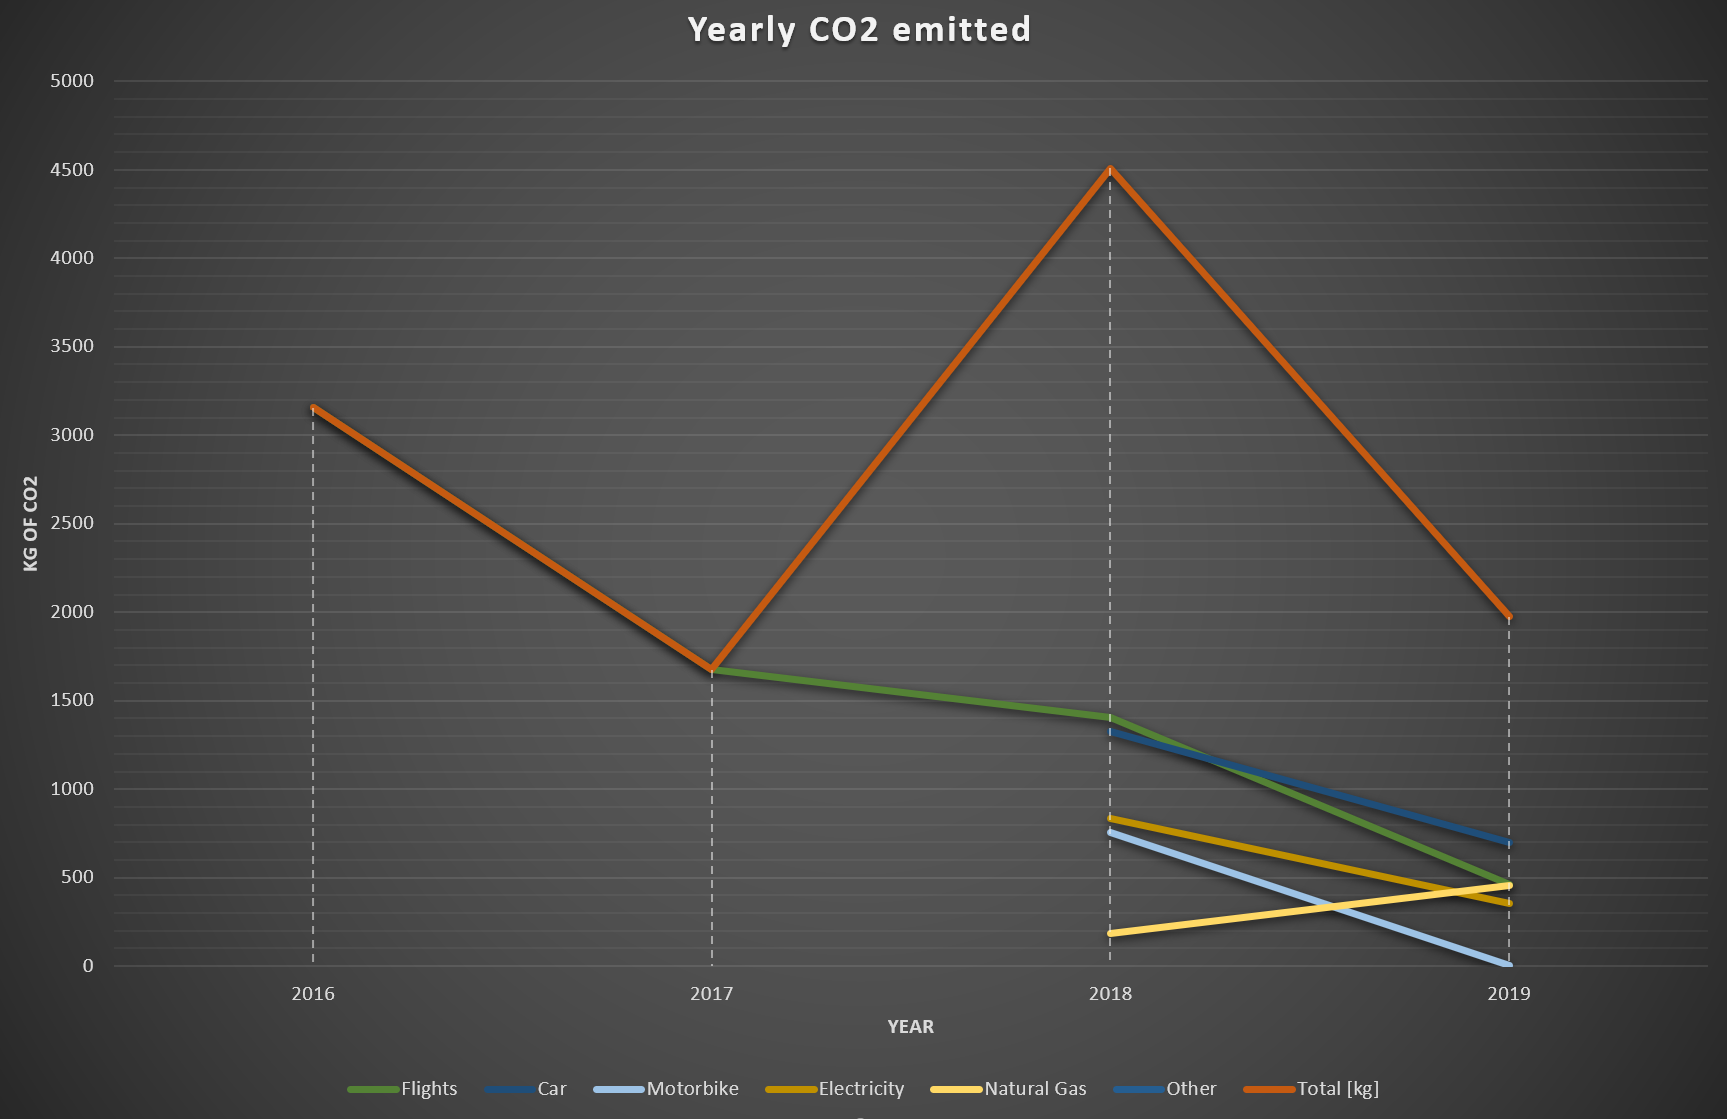
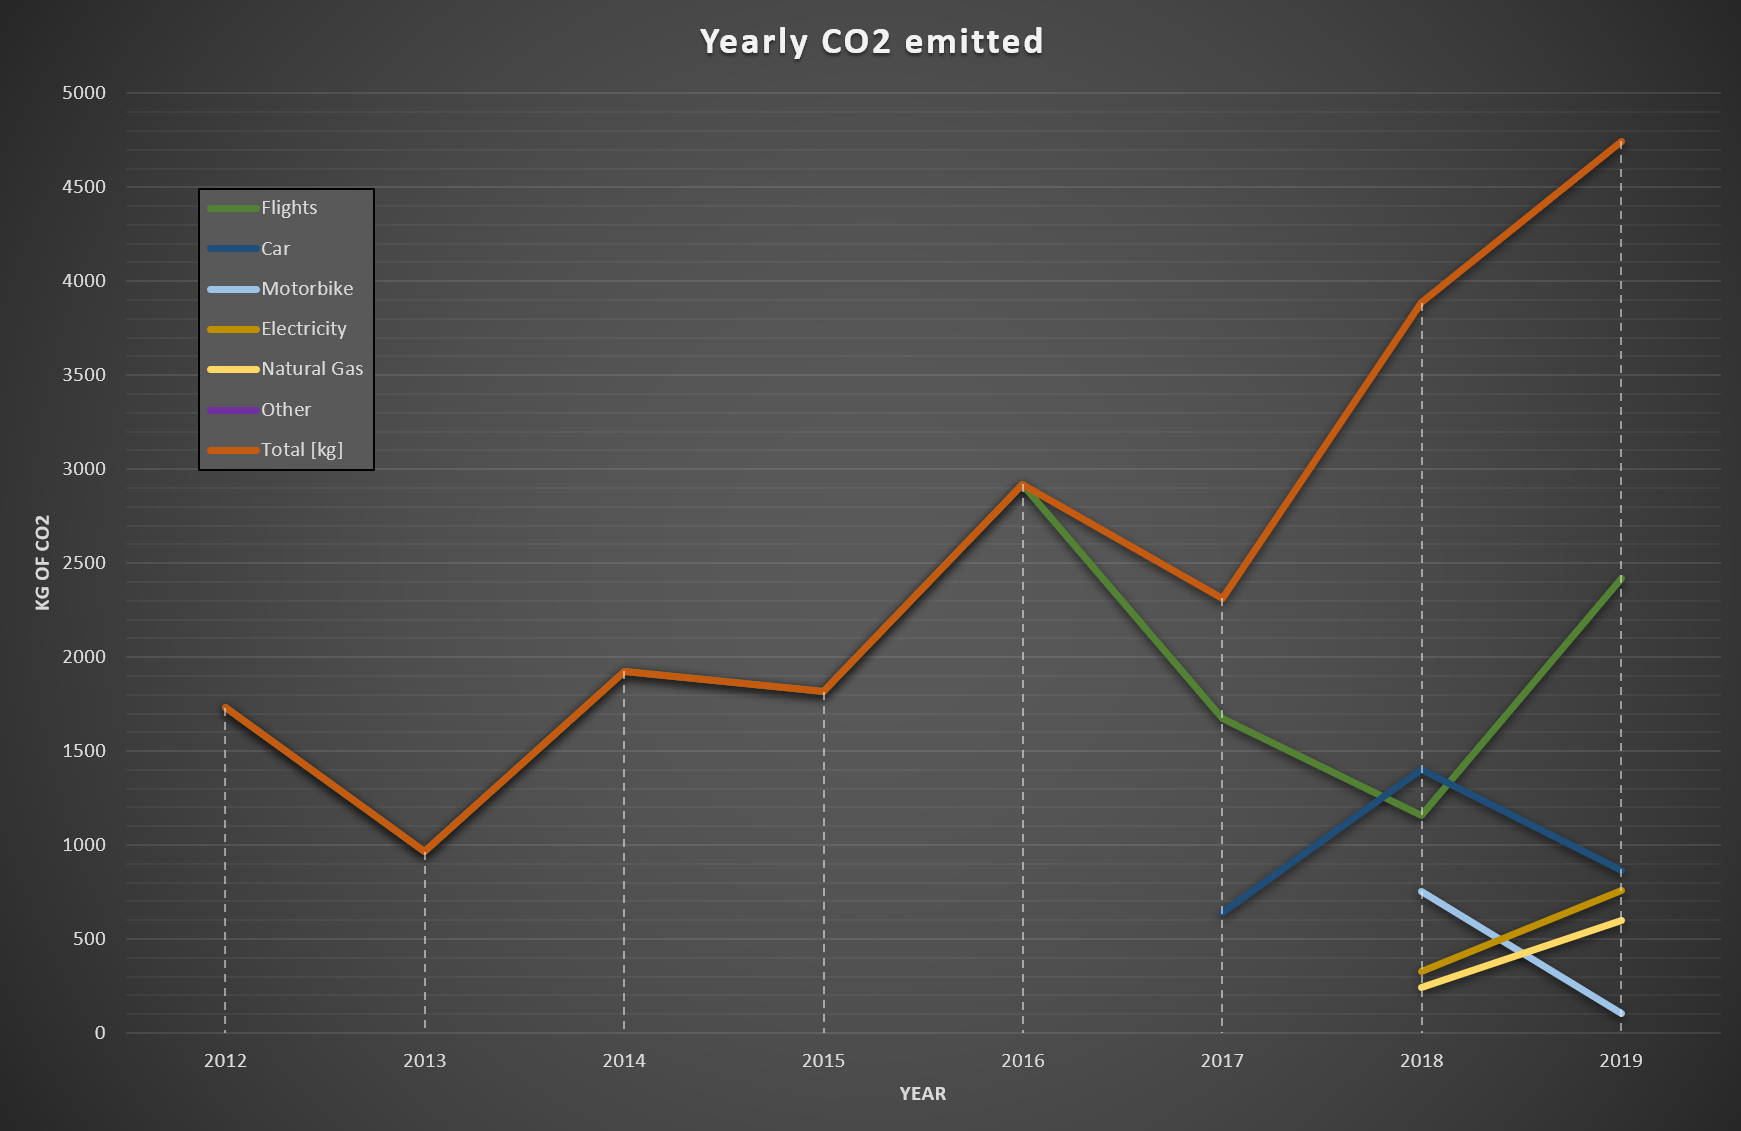
Updated CO2 footprint

diff --git a/pages/footprint.md b/pages/footprint.md
@@ -20,12 +20,12 @@ This is my current measurements for my yearly CO2 ~~and Water~~ impact:
 
 | Year        	| 2016   	| 2017   	| 2018   	| 2019   	|
 |-------------	|--------	|--------	|--------	|--------	|
-| **Total [kg]**| **3157**| **1675**| **4508**| **1973.7**|
-| Flights     	| 3156.8 	| 1674.5 	| 1406.4 	| 459.2  	|
-| Car         	|        	|        	| 1326.6 	| 699.2  	|
-| Motorbike   	|        	|        	| 752.8  	| 3.8    	|
-| Electricity 	|        	|        	| 837.0  	| 356.8  	|
-| Natural Gas 	|        	|        	| 185.0  	| 454.7  	|
+| **Total [kg]**| **2919**| **2313**| **3885**| **4745**|
+| Flights     	| 2919 	  |  1675	  | 1157 	  | 2420  	|
+| Car         	|        	|  639 	  | 1401	  | 864  	  |
+| Motorbike   	|        	|        	| 755  	  | 101   	|
+| Electricity 	|        	|        	| 328  	  | 761  	  |
+| Natural Gas 	|        	|        	| 243     | 600  	  |
 | Other       	|        	|        	|        	|        	|
 
 
@@ -36,7 +36,7 @@ This is my current measurements for my yearly CO2 ~~and Water~~ impact:
   - 2018 only has half a years worth of data on Electrical Energy and gas
   - [More information on this in this blog post.]({{site.url}}/2019/04/22/co2-tracking/)
 
-###### Last updated: 2019-04-07
+###### Last updated: 2019-09-01
 <br>
 
 #### Assumptions
